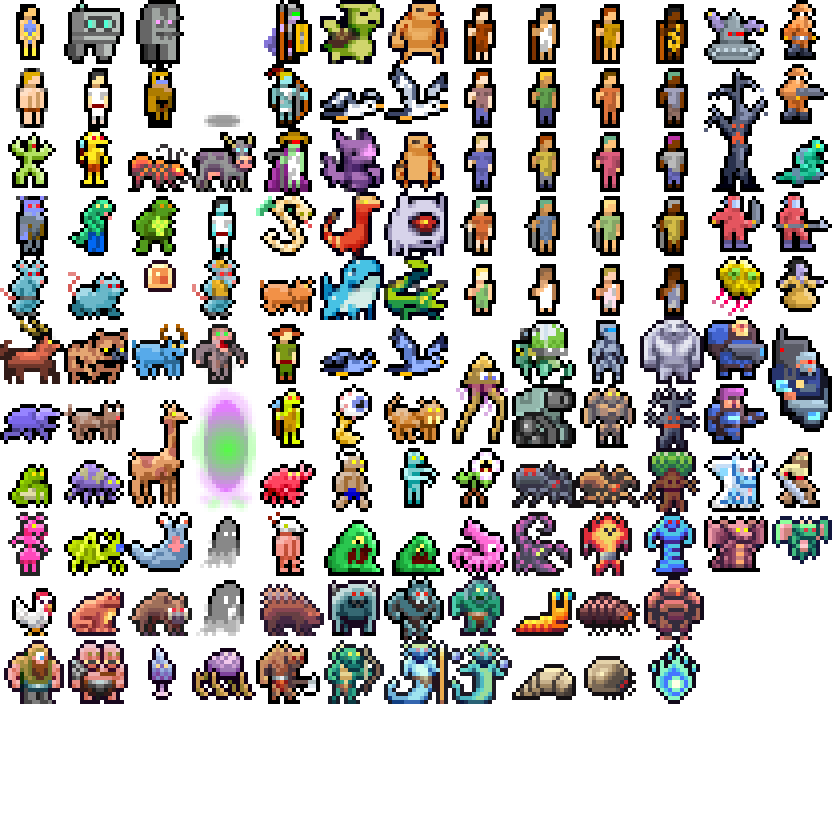
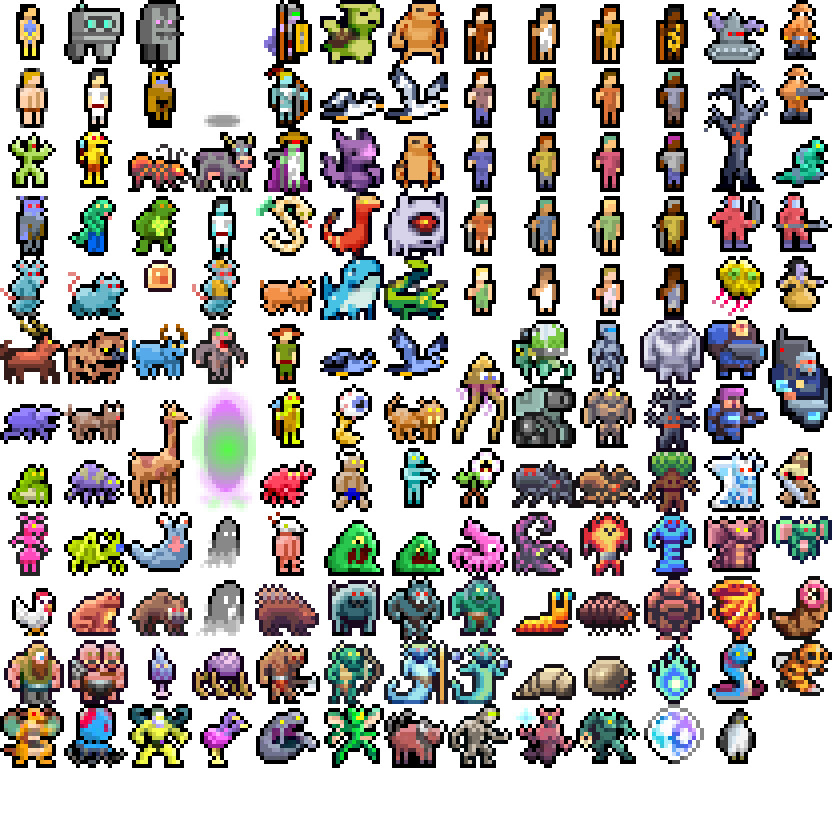
more sprites

Changed region(s): [[0.0, 0.6875, 1.0, 0.9375], [0.2812, 0.6875, 0.4062, 0.7812], [0.875, 0.5625, 0.9062, 0.5938]]

diff --git a/src/main/kotlin/render/tilesets/MobTileSet.kt b/src/main/kotlin/render/tilesets/MobTileSet.kt
@@ -1,6 +1,5 @@
 package render.tilesets
 
-import render.tileholders.AnimatedTile
 import render.tileholders.SimpleTile
 
 fun ActorTileSet() =
@@ -134,4 +133,20 @@ fun ActorTileSet() =
         setTile(Glyph.WHITE_DRAKE, SimpleTile(this, 11, 7))
         setTile(Glyph.RED_DRAKE, SimpleTile(this, 11, 8))
         setTile(Glyph.GREEN_DRAKE, SimpleTile(this, 12, 8))
+        setTile(Glyph.LAMPREY, SimpleTile(this, 12, 9))
+        setTile(Glyph.FIRE_TORNADO, SimpleTile(this, 11, 9))
+        setTile(Glyph.BEE, SimpleTile(this, 12, 10))
+        setTile(Glyph.CORAL_SNAKE, SimpleTile(this, 11, 10))
+        setTile(Glyph.FLYDRAGON, SimpleTile(this, 0, 11))
+        setTile(Glyph.JELLYBULB, SimpleTile(this, 1, 11))
+        setTile(Glyph.SUPERBRUTE, SimpleTile(this, 2, 11))
+        setTile(Glyph.LOSTRICH, SimpleTile(this, 3, 11))
+        setTile(Glyph.TRASH_MONSTER, SimpleTile(this, 4, 11))
+        setTile(Glyph.MANTIS_MAN, SimpleTile(this, 5, 11))
+        setTile(Glyph.DEVIL_BULL, SimpleTile(this, 6, 11))
+        setTile(Glyph.WASTED_ONE, SimpleTile(this, 7, 11))
+        setTile(Glyph.CONSTRUCT_WITCH, SimpleTile(this, 8, 11))
+        setTile(Glyph.CONSTRUCT_STRIKER, SimpleTile(this, 9, 11))
+        setTile(Glyph.ENERGY_SPHERE, SimpleTile(this, 10, 11))
+        setTile(Glyph.PENGUIN, SimpleTile(this, 11, 11))
     }

diff --git a/src/main/kotlin/render/tilesets/Glyph.kt b/src/main/kotlin/render/tilesets/Glyph.kt
@@ -213,6 +213,22 @@ enum class Glyph(val tall: Boolean = false) {
     WHITE_DRAKE,
     RED_DRAKE,
     GREEN_DRAKE,
+    LAMPREY,
+    FIRE_TORNADO,
+    BEE,
+    CORAL_SNAKE,
+    FLYDRAGON,
+    JELLYBULB,
+    SUPERBRUTE,
+    LOSTRICH,
+    TRASH_MONSTER,
+    MANTIS_MAN,
+    DEVIL_BULL,
+    WASTED_ONE,
+    CONSTRUCT_WITCH,
+    CONSTRUCT_STRIKER,
+    ENERGY_SPHERE,
+    PENGUIN,
 
     OAK_TREE,
     MAPLE_TREE,
